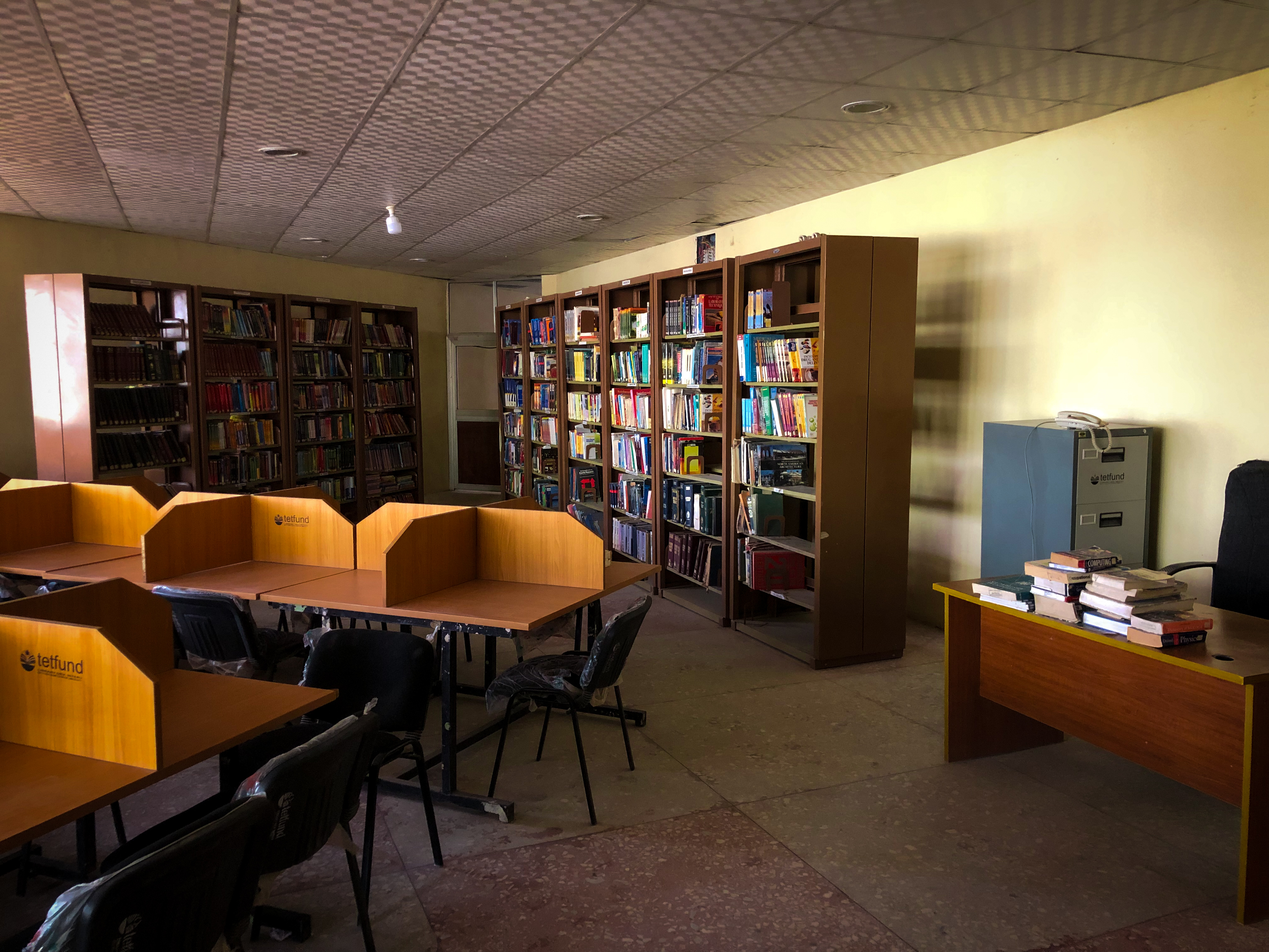
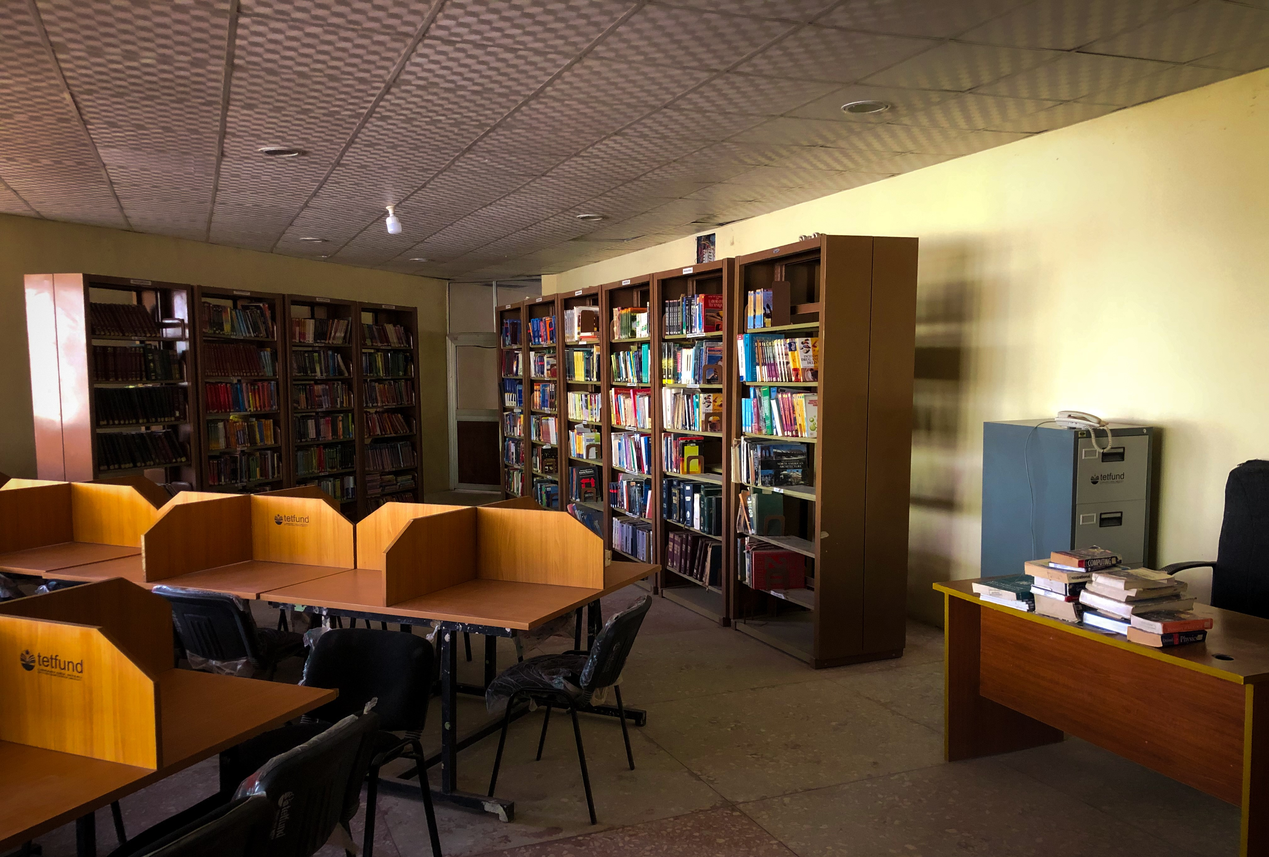
first commit

diff --git a/app/components/AboutThird.js b/app/components/AboutThird.js
@@ -50,7 +50,7 @@ const AboutThird = () => {
       <div className='card-wrapper w-full md:w-1/2 lg:w-1/4 mx-2 sm:mx-4 shadow-md bg-slate-50/30 rounded-md p-2 my-3 border bo1der-slate-50 flex justify-between items-center flex-col'>
         <div className='rounded-md w-full h-52 mb-4 overflow-hidden'>
           <img
-            src="/image-23.jpg"
+            src="/IMG_5806.jpg"
             alt=''
             className='rounded-sm w-full h-full'
           />
